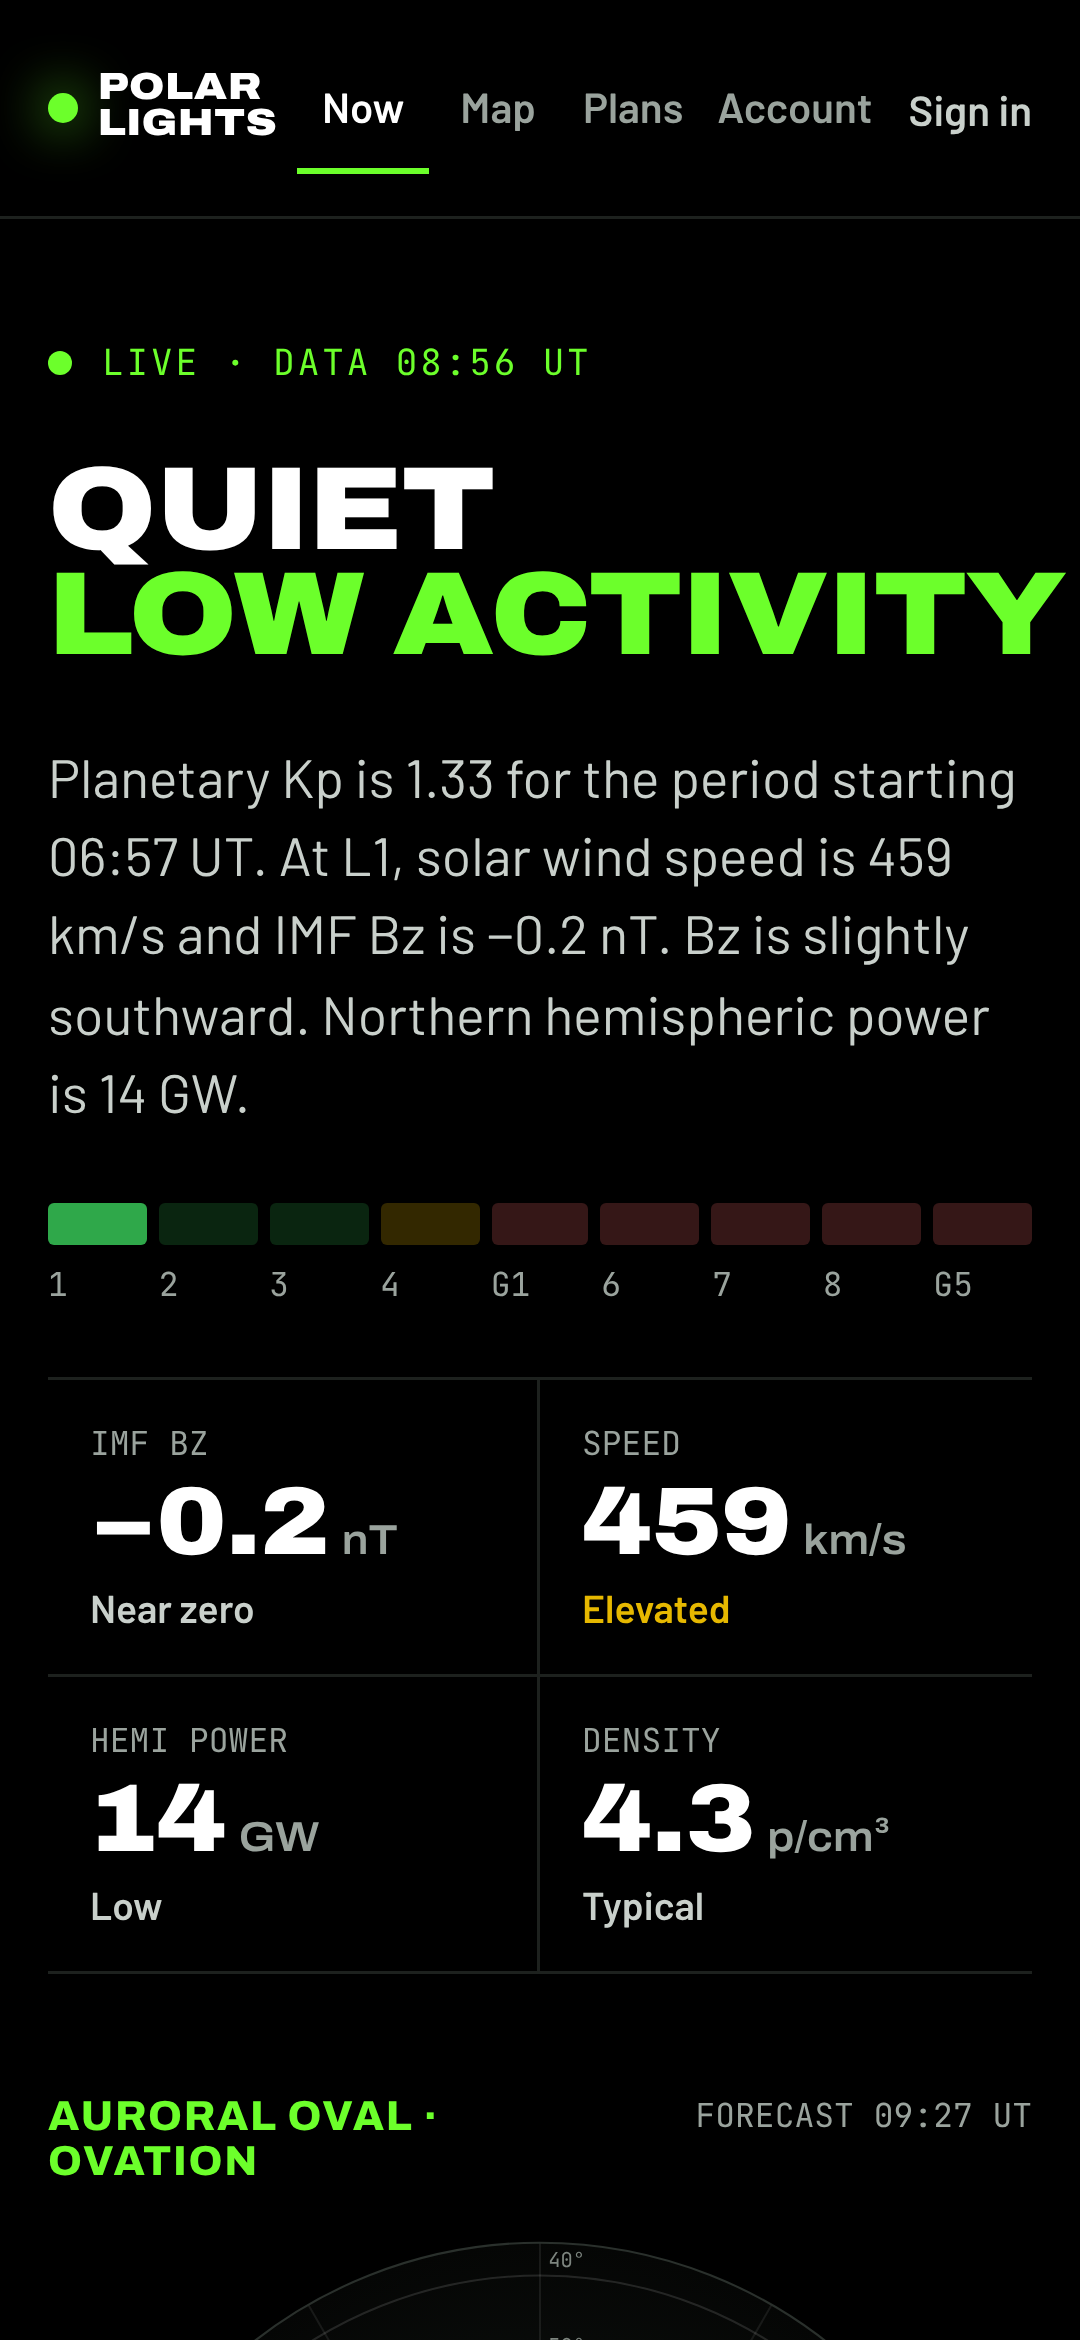
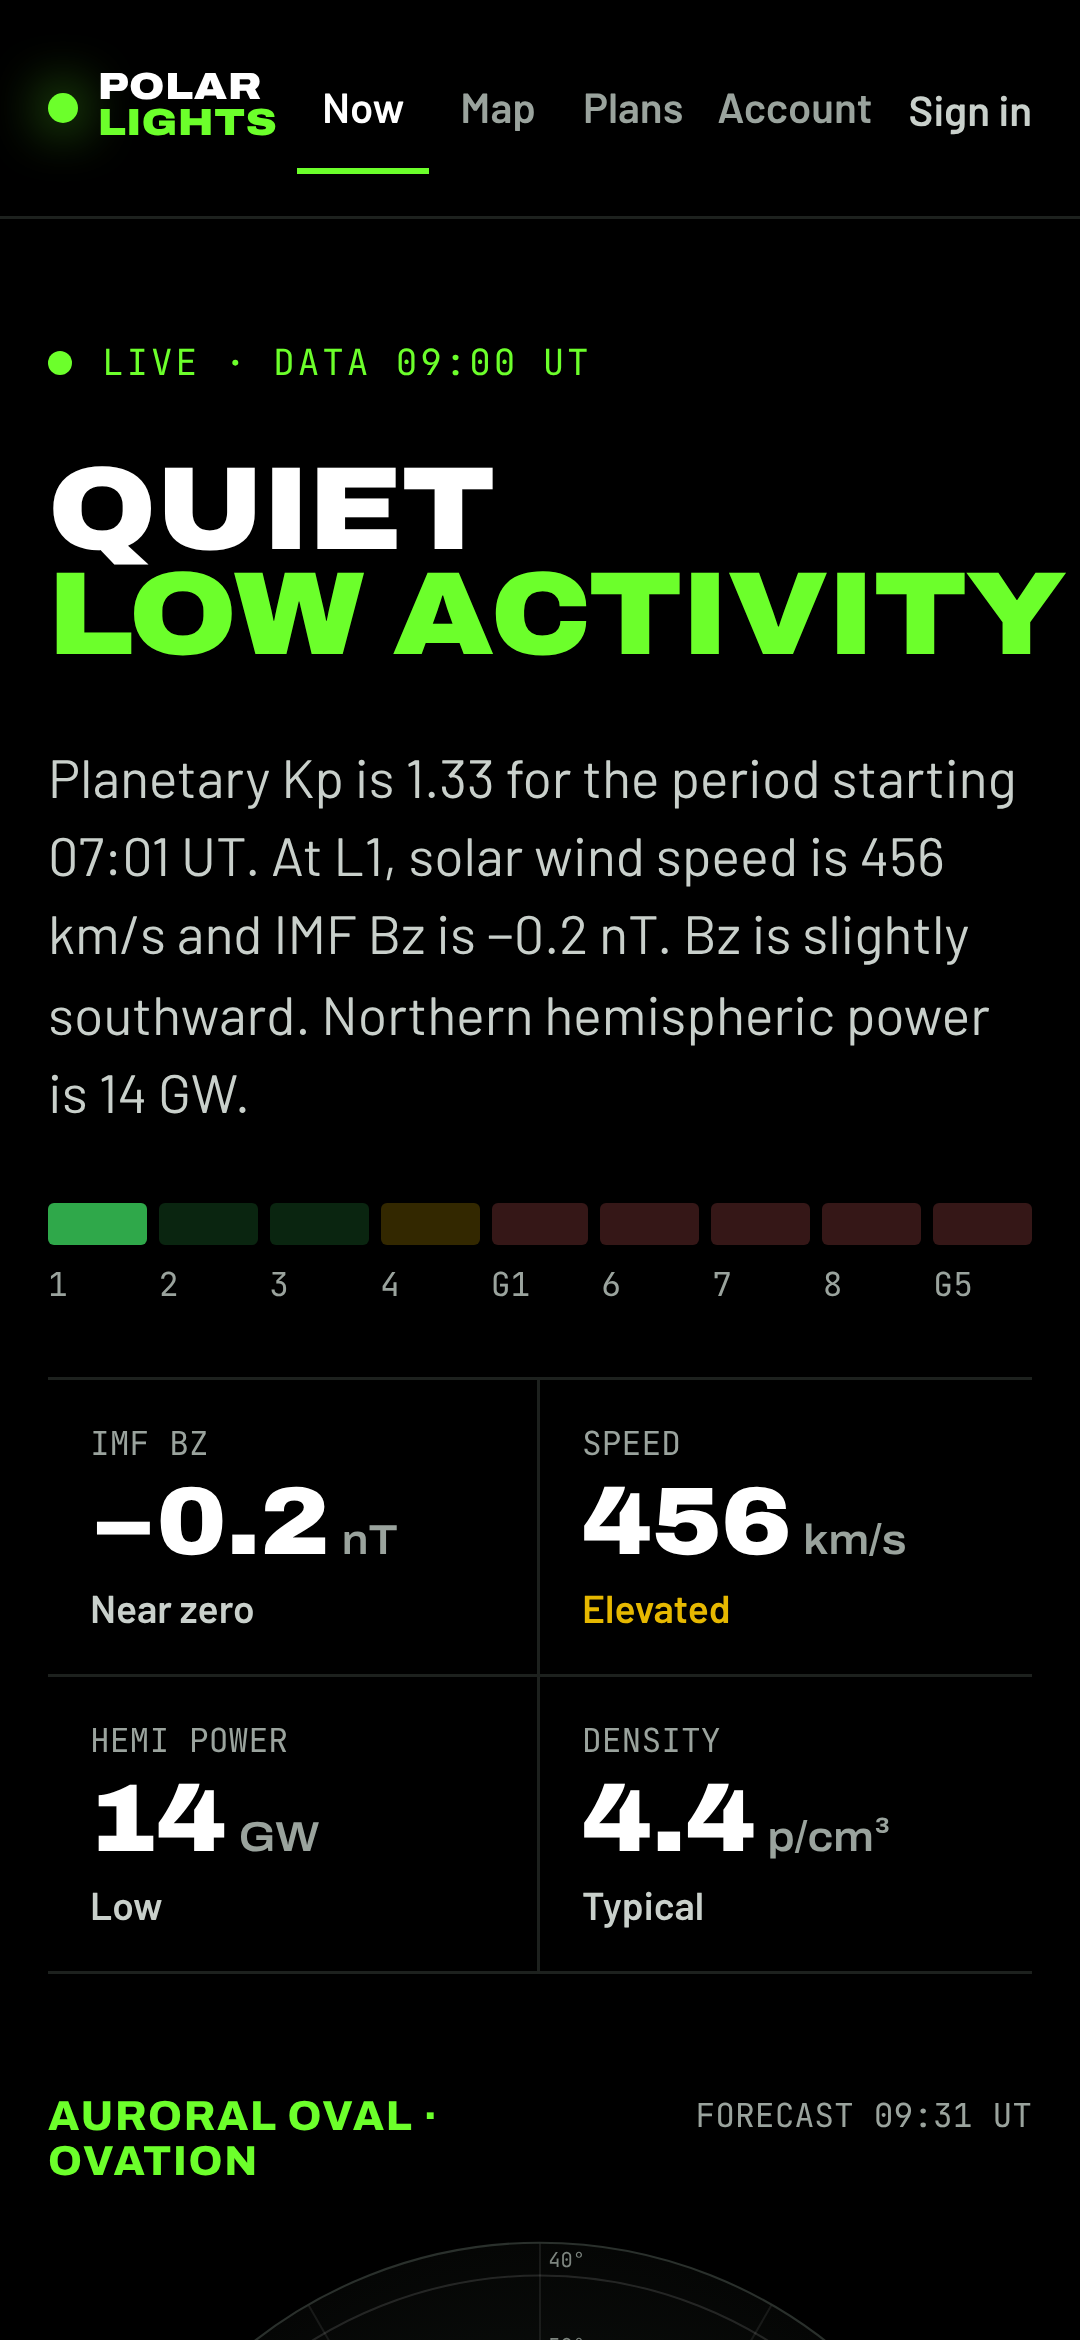
Use www.polarlights.io as the canonical address and colour LIGHTS green
- SITE.url is https://www.polarlights.io (Vercel serves www as primary;
  the apex redirects to it). Open Graph, metadataBase and README follow.
- Header wordmark: LIGHTS in the brand green, like the headline highlights.
- Install screenshots regenerated.

Claude-Session: https://claude.ai/code/session_012CrCYLZEfx1x1rGoXHPbfj

diff --git a/app/src/components/Chrome.tsx b/app/src/components/Chrome.tsx
@@ -17,7 +17,7 @@ export function Header({ kpLabel }: { kpLabel: string }) {
           <button type="button" className="btn brand" onClick={() => go('home')} aria-label={`${SITE.name} home`}>
             <span className="brand-dot" />
             {/* Stacks to two lines on phones so the header stays on one row. */}
-            <span className="brand-name" aria-hidden="true"><span>Polar</span> <span>Lights</span></span>
+            <span className="brand-name" aria-hidden="true"><span>Polar</span> <span className="hl">Lights</span></span>
           </button>
           <nav className="nav">
             {NAV.map(([label, screen]) => {

diff --git a/app/src/lib/site.ts b/app/src/lib/site.ts
@@ -2,6 +2,6 @@
 export const SITE = {
   name: 'Polar Lights',
   domain: 'polarlights.io',
-  url: process.env.NEXT_PUBLIC_SITE_URL ?? 'https://polarlights.io',
+  url: process.env.NEXT_PUBLIC_SITE_URL ?? 'https://www.polarlights.io',
   tagline: 'Aurora forecasts',
 } as const;

diff --git a/app/README.md b/app/README.md
@@ -1,8 +1,8 @@
 # Polar Lights — aurora forecasts
 
-Live at **https://polarlights.io**. `auroracast.io` is registered for the same app and should redirect to
-polarlights.io (set both in Vercel → Project → Domains, with `polarlights.io` as the primary domain and
-`www.polarlights.io`, `auroracast.io` and `www.auroracast.io` as permanent 308 redirects to it).
+Live at **https://www.polarlights.io** (the canonical address; `polarlights.io` redirects to it).
+`auroracast.io` is registered for the same app; to avoid a duplicate site, set `auroracast.io` and
+`www.auroracast.io` in Vercel → Project → Domains as permanent 308 redirects to `www.polarlights.io`.
 The brand name, domain and tagline live in `src/lib/site.ts`; `NEXT_PUBLIC_SITE_URL` overrides the canonical URL.
 
 Next.js (App Router) + TypeScript implementation of `project/Aurora Prototype.dc.html` from the Claude Design handoff.
@@ -90,7 +90,7 @@ The scripts need Playwright (`npx playwright install chromium`, or `PW_ROOT=$(np
 **Validate mobile behaviour** against any build (exits non-zero on failure):
 
 ```sh
-BASE=https://polarlights.io node scripts/validate-mobile.mjs
+BASE=https://www.polarlights.io node scripts/validate-mobile.mjs
 ```
 
 It emulates a Pixel 7 and checks the manifest and its images, Chrome's own installability verdict
@@ -99,7 +99,8 @@ at 360 px and 412 px for sideways scrolling, page errors and touch targets under
 
 **Publishing to Google Play** (outline):
 
-1. Install Bubblewrap: `npm i -g @bubblewrap/cli`, then `bubblewrap init --manifest https://polarlights.io/manifest.webmanifest`.
+1. Install Bubblewrap: `npm i -g @bubblewrap/cli`, then `bubblewrap init --manifest https://www.polarlights.io/manifest.webmanifest`
+   (use the www host: the Android app and `/.well-known/assetlinks.json` are bound to that exact host).
    The Android app is bound to this one domain (the auroracast.io redirect doesn't need its own app).
    Choose an application ID such as `io.polarlights.app`; it can't be changed after the first Play release.
 2. `bubblewrap build` produces a signed `.aab` for upload.
